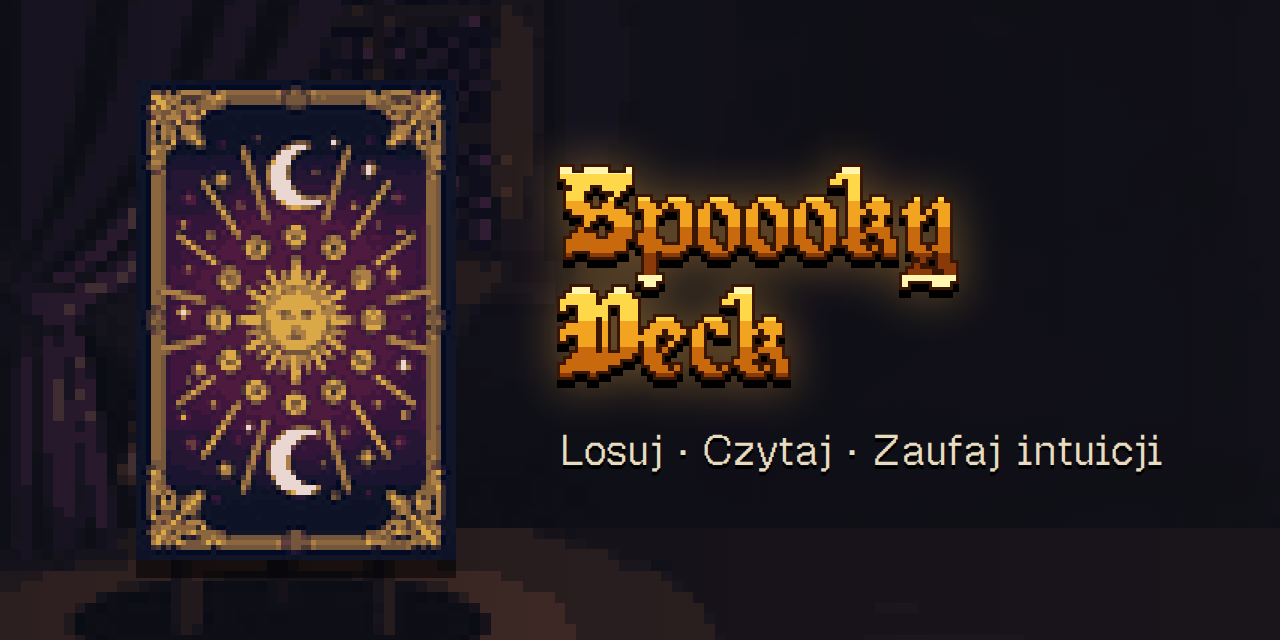
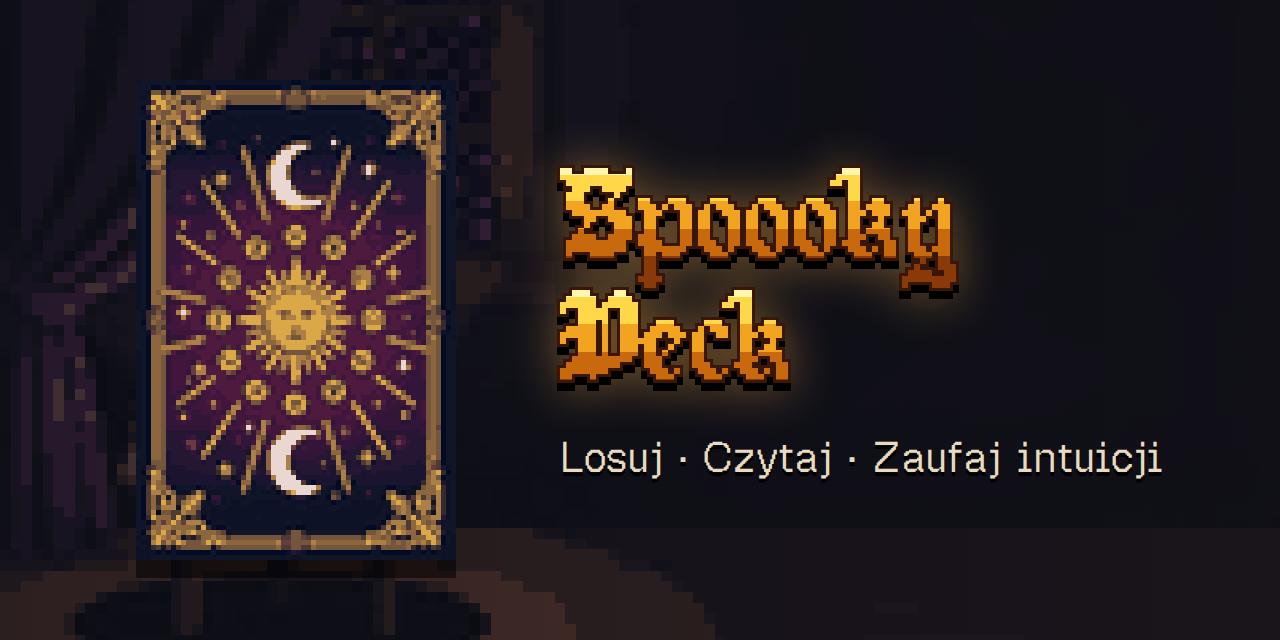
Title: brown descenders on p and y everywhere (splash, pick, share image, og, GitHub preview); band tiles aligned to glyph metrics; og v=8

Changed region(s): [[0.4375, 0.3125, 0.75, 0.625], [0.4375, 0.6562, 0.9062, 0.75], [0.4375, 0.25, 0.5, 0.2812]]

diff --git a/sw.js b/sw.js
@@ -1,5 +1,5 @@
 // Service worker Spoooky Deck. Plik sw.js jest generowany przez tools/build_sw.py (wersja = skrót zawartości plików).
-const VERSION = 'fcaa4c0995';
+const VERSION = 'af614d603d';
 const CACHE = 'spooooky-' + VERSION;
 const FILES = ["./", "css/cards.css", "css/fonts.css", "css/style.css", "css/theme.css", "data/cards.json", "data/grammar.en.json", "data/grammar.pl.json", "data/ui.en.json", "data/ui.pl.json", "data/zodiac.en.json", "data/zodiac.pl.json", "fonts/OldEnglishGothicPixel-OFL.txt", "fonts/OldEnglishGothicPixel.ttf", "fonts/OldeTome.ttf", "fonts/geistpixel-latin-ext.woff2", "fonts/geistpixel-latin.woff2", "fonts/jacquard12-latin-ext.woff2", "fonts/jacquard12-latin.woff2", "img/cards/ar00.png", "img/cards/ar01.png", "img/cards/ar02.png", "img/cards/ar03.png", "img/cards/ar04.png", "img/cards/ar05.png", "img/cards/ar06.png", "img/cards/ar07.png", "img/cards/ar08.png", "img/cards/ar09.png", "img/cards/ar10.png", "img/cards/ar11.png", "img/cards/ar12.png", "img/cards/ar13.png", "img/cards/ar14.png", "img/cards/ar15.png", "img/cards/ar16.png", "img/cards/ar17.png", "img/cards/ar18.png", "img/cards/ar19.png", "img/cards/ar20.png", "img/cards/ar21.png", "img/cards/cu01.png", "img/cards/cu02.png", "img/cards/cu03.png", "img/cards/cu04.png", "img/cards/cu05.png", "img/cards/cu06.png", "img/cards/cu07.png", "img/cards/cu08.png", "img/cards/cu09.png", "img/cards/cu10.png", "img/cards/cu11.png", "img/cards/cu12.png", "img/cards/cu13.png", "img/cards/cu14.png", "img/cards/pe01.png", "img/cards/pe02.png", "img/cards/pe03.png", "img/cards/pe04.png", "img/cards/pe05.png", "img/cards/pe06.png", "img/cards/pe07.png", "img/cards/pe08.png", "img/cards/pe09.png", "img/cards/pe10.png", "img/cards/pe11.png", "img/cards/pe12.png", "img/cards/pe13.png", "img/cards/pe14.png", "img/cards/sw01.png", "img/cards/sw02.png", "img/cards/sw03.png", "img/cards/sw04.png", "img/cards/sw05.png", "img/cards/sw06.png", "img/cards/sw07.png", "img/cards/sw08.png", "img/cards/sw09.png", "img/cards/sw10.png", "img/cards/sw11.png", "img/cards/sw12.png", "img/cards/sw13.png", "img/cards/sw14.png", "img/cards/wa01.png", "img/cards/wa02.png", "img/cards/wa03.png", "img/cards/wa04.png", "img/cards/wa05.png", "img/cards/wa06.png", "img/cards/wa07.png", "img/cards/wa08.png", "img/cards/wa09.png", "img/cards/wa10.png", "img/cards/wa11.png", "img/cards/wa12.png", "img/cards/wa13.png", "img/cards/wa14.png", "img/emoji/U+1F30D.png", "img/emoji/U+1F319.png", "img/emoji/U+1F377.png", "img/emoji/U+1F3C6.png", "img/emoji/U+1F4A7.png", "img/emoji/U+1F4A8.png", "img/emoji/U+1F507.png", "img/emoji/U+1F50A.png", "img/emoji/U+1F525.png", "img/emoji/U+1F53A.png", "img/emoji/U+1F53B.png", "img/emoji/U+1FA99.png", "img/emoji/U+2648.png", "img/emoji/U+2649.png", "img/emoji/U+264A.png", "img/emoji/U+264B.png", "img/emoji/U+264C.png", "img/emoji/U+264D.png", "img/emoji/U+264E.png", "img/emoji/U+264F.png", "img/emoji/U+2650.png", "img/emoji/U+2651.png", "img/emoji/U+2652.png", "img/emoji/U+2653.png", "img/emoji/U+2694.png", "img/emoji/U+2728.png", "img/icons/apple-touch-icon.png", "img/icons/favicon-16.png", "img/icons/favicon-32.png", "img/icons/icon-192.png", "img/icons/icon-512.png", "img/icons/icon-maskable-512.png", "img/og-bg.png", "img/og.png", "img/ui/back.png", "img/ui/bg-card.png", "img/ui/bg-intro.png", "img/ui/bg-pick.png", "img/ui/bg-read.png", "img/ui/btn-alt.png", "img/ui/btn.png", "img/ui/candle.png", "img/ui/cardframe.png", "img/ui/cursor.png", "img/ui/emblem.png", "img/ui/frame.png", "img/ui/ic-candle.png", "img/ui/ic-industry.png", "img/ui/ic-stage.png", "img/ui/ic-stars.png", "img/ui/ic-tower.png", "img/ui/picture-frame.png", "img/ui/shine.png", "index.html", "js/app.js", "js/audio.js", "js/deck.js", "js/fx.js", "js/oracle.js", "js/share.js", "js/vendor/seedrandom.min.js", "js/vendor/tracery.js", "js/vendor/zzfx.js", "manifest.webmanifest"];
 

diff --git a/css/theme.css b/css/theme.css
@@ -146,22 +146,24 @@ input:focus,select:focus{border-color:var(--flame);outline:none;box-shadow:inset
 /* tytuł (splash i ekran wyboru karty) jako złoty metal (twarde pasy światła, ciemny obrys, błysk i gwiazdki) */
 #s-intro h1,#s-pick h1{position:relative;color:transparent;text-shadow:none;
   background:linear-gradient(105deg,#0000 38%,#fff8 45%,#fff 50%,#fff8 55%,#0000 62%) 100% 0/250% 100% no-repeat,
-    linear-gradient(#fff6b0 0 16%,#ffd84a 16% 38%,#f2a31f 38% 60%,#c9690e 60% 82%,#8a3a08 82%) 0 0/100% 1.02em repeat-y;   /* pasy powtarzane co wiersz */
+    linear-gradient(#fff6b0 0 6%,#ffd84a 6% 28%,#f2a31f 28% 50%,#c9690e 50% 72%,#8a3a08 72%) 0 .105em/100% 1.02em repeat-y;   /* pasy powtarzane co wiersz; brąz od linii pisma w dół, więc ogonki p i y są brązowe */
   -webkit-background-clip:text;background-clip:text;
   filter:drop-shadow(calc(2*var(--u)) 0 0 #3a1604) drop-shadow(calc(-2*var(--u)) 0 0 #3a1604) drop-shadow(0 calc(-2*var(--u)) 0 #3a1604) drop-shadow(0 calc(2*var(--u)) 0 #3a1604) drop-shadow(0 calc(5*var(--u)) 0 #000) drop-shadow(0 0 12px #ffb34755)}
 #s-intro h1::after,#s-pick h1::after{content:"";position:absolute;left:14%;top:18%;width:calc(7*var(--u));height:calc(7*var(--u));margin:calc(-3.5*var(--u)) 0 0 calc(-3.5*var(--u));opacity:0;pointer-events:none;
   background:linear-gradient(#fff,#fff) center/100% calc(var(--u)) no-repeat,linear-gradient(#fff,#fff) center/calc(var(--u)) 100% no-repeat;
   transform:scale(2.4);animation:glint 5.6s steps(1) infinite}
 #s-intro h1,#s-pick h1{animation:goldshine 5.6s steps(26) infinite}
-@keyframes goldshine{0%{background-position:100% 0,0 0}40%,100%{background-position:0 0,0 0}}
+@keyframes goldshine{0%{background-position:100% 0,0 var(--bp)}40%,100%{background-position:0 0,0 var(--bp)}}   /* druga warstwa (pasy) zostaje na swoim miejscu */
 @keyframes glint{0%,100%{left:14%;top:18%;opacity:0}5%{opacity:1}12%{opacity:0}
   33%{left:60%;top:60%;opacity:0}38%{opacity:1}45%{opacity:0}
   66%{left:86%;top:14%;opacity:0}71%{opacity:1}78%{opacity:0}}
 @media(prefers-reduced-motion:reduce){#s-intro h1,#s-intro h1::after,#s-pick h1::after{animation:none}}
-#s-pick h1{line-height:1;background-size:250% 100%,100% 1em}
+#s-intro h1{--bp:.105em}
+#s-pick h1{--bp:.095em;line-height:1;background-size:250% 100%,100% 1.02em;background-position:100% 0,0 .095em}
 #s-pick h1::after{display:none}
 #fan:focus,#fan:focus-visible{outline:none}   /* wachlarz pokazuje wybraną kartę sam, ramka fokusu była zbędna */
 /* zmiana ekranu: nowy ekran szybko się rozjaśnia */
 .screen.fadein{animation:scrfade .22s ease-out}
 @keyframes scrfade{from{opacity:0}to{opacity:1}}
 .ftitle,.fintro{text-shadow:0 2px 0 #000,0 0 8px #000,0 0 14px #000}   /* czytelność na jasnym księżycu */
+#s-intro h1,#s-pick h1{padding-bottom:.12em;margin-bottom:-.12em}   /* pole tła obejmuje ogonki liter p i y */

diff --git a/index.html b/index.html
@@ -15,7 +15,7 @@
 <meta property="og:title" content="Spoooky Deck">
 <meta property="og:description" content="Losuj · Czytaj · Zaufaj intuicji. Wyrocznia tarota dla firm.">
 <meta property="og:url" content="https://whosz.pl/tarot/">
-<meta property="og:image" content="https://whosz.pl/tarot/img/og.png?v=7">
+<meta property="og:image" content="https://whosz.pl/tarot/img/og.png?v=8">
 <meta property="og:image:type" content="image/png">
 <meta property="og:image:alt" content="Rewers karty tarota ze złotym słońcem i księżycami oraz napis Spoooky Deck: Losuj, Czytaj, Zaufaj intuicji">
 <meta property="og:locale" content="pl_PL">
@@ -24,7 +24,7 @@
 <meta name="twitter:card" content="summary_large_image">
 <meta name="twitter:title" content="Spoooky Deck">
 <meta name="twitter:description" content="Losuj · Czytaj · Zaufaj intuicji. Wyrocznia tarota dla firm.">
-<meta name="twitter:image" content="https://whosz.pl/tarot/img/og.png?v=7">
+<meta name="twitter:image" content="https://whosz.pl/tarot/img/og.png?v=8">
 <meta name="twitter:image:alt" content="Rewers karty tarota ze złotym słońcem i księżycami oraz napis Spoooky Deck">
 <link rel="apple-touch-icon" href="img/icons/apple-touch-icon.png">
 <meta name="apple-mobile-web-app-capable" content="yes">
@@ -34,10 +34,10 @@
 <link rel="preload" href="fonts/jacquard12-latin-ext.woff2" as="font" type="font/woff2" crossorigin>
 <link rel="preload" href="fonts/geistpixel-latin.woff2" as="font" type="font/woff2" crossorigin>
 <link rel="preload" href="fonts/geistpixel-latin-ext.woff2" as="font" type="font/woff2" crossorigin>
-<link rel="stylesheet" href="css/fonts.css?v=192">
-<link rel="stylesheet" href="css/style.css?v=192">
-<link rel="stylesheet" href="css/cards.css?v=192">
-<link rel="stylesheet" href="css/theme.css?v=192">
+<link rel="stylesheet" href="css/fonts.css?v=196">
+<link rel="stylesheet" href="css/style.css?v=196">
+<link rel="stylesheet" href="css/cards.css?v=196">
+<link rel="stylesheet" href="css/theme.css?v=196">
 </head>
 <body>
 <div id="phone">
@@ -130,6 +130,6 @@
 <script src="js/vendor/seedrandom.min.js"></script>
 <script src="js/vendor/tracery.js"></script>
 <script src="js/vendor/zzfx.js"></script>
-<script type="module" src="js/app.js?v=192"></script>
+<script type="module" src="js/app.js?v=196"></script>
 </body>
 </html>

diff --git a/js/share.js b/js/share.js
@@ -44,12 +44,12 @@ async function drawCard(card, lang) {
 // Tytuł jako złoty metal, jak na splashu: twarde pasy światła, ciemny obrys, cień i delikatna poświata (statycznie, bez animacji).
 function drawGoldTitle(g, text, x, baseline, px) {
   g.save(); g.font = `${px}px "Old English Gothic Pixel"`; g.textAlign = 'center'; g.textBaseline = 'alphabetic';
-  const m = g.measureText(text), top = baseline - m.fontBoundingBoxAscent, h = m.fontBoundingBoxAscent + m.fontBoundingBoxDescent, d = Math.max(2, Math.round(px / 40));
+  const top = baseline - .76 * px, h = 1.02 * px, d = Math.max(2, Math.round(px / 40));   // pasy: od góry liter (0,75 em nad linią pisma), brąz od linii w dół, więc ogonki p i y są brązowe
   g.shadowColor = '#ffb34766'; g.shadowBlur = px / 5; g.fillStyle = '#000'; g.fillText(text, x, baseline + d * 2.5); g.shadowBlur = 0;   // cień pod spodem i poświata
   g.fillStyle = '#3a1604';
   for (const [dx, dy] of [[1, 0], [-1, 0], [0, 1], [0, -1], [1, 1], [-1, 1], [1, -1], [-1, -1]]) g.fillText(text, x + dx * d, baseline + dy * d);   // obrys
   const gr = g.createLinearGradient(0, top, 0, top + h);
-  [['#fff6b0', 0], ['#fff6b0', .16], ['#ffd84a', .16], ['#ffd84a', .38], ['#f2a31f', .38], ['#f2a31f', .6], ['#c9690e', .6], ['#c9690e', .82], ['#8a3a08', .82], ['#8a3a08', 1]].forEach(([c, o]) => gr.addColorStop(o, c));
+  [['#fff6b0', 0], ['#fff6b0', .06], ['#ffd84a', .06], ['#ffd84a', .28], ['#f2a31f', .28], ['#f2a31f', .5], ['#c9690e', .5], ['#c9690e', .72], ['#8a3a08', .72], ['#8a3a08', 1]].forEach(([c, o]) => gr.addColorStop(o, c));
   g.fillStyle = gr; g.fillText(text, x, baseline); g.restore();
 }
 

diff --git a/js/app.js b/js/app.js
@@ -1,8 +1,8 @@
-import { draw, loadHistory, saveHistory, newSeed } from './deck.js?v=192';
-import { compose, INDUSTRIES, STAGES } from './oracle.js?v=192';
-import { startBg, revealFx, tiltCard, enableGyro, startAmbient, stopAmbient, setTheme, resetTheme, sparkleCard, flickerTitle, cursorSparks } from './fx.js?v=192';
-import { shareImage } from './share.js?v=192';
-import { start as startAudio, sfx, toggleMute, isMuted, audioError } from './audio.js?v=192';
+import { draw, loadHistory, saveHistory, newSeed } from './deck.js?v=196';
+import { compose, INDUSTRIES, STAGES } from './oracle.js?v=196';
+import { startBg, revealFx, tiltCard, enableGyro, startAmbient, stopAmbient, setTheme, resetTheme, sparkleCard, flickerTitle, cursorSparks } from './fx.js?v=196';
+import { shareImage } from './share.js?v=196';
+import { start as startAudio, sfx, toggleMute, isMuted, audioError } from './audio.js?v=196';
 
 const $ = s => document.querySelector(s);
 const OFFER = 'https://whosz.pl/offer/?utm_source=tarot&utm_medium=app&utm_campaign=wrozba';
